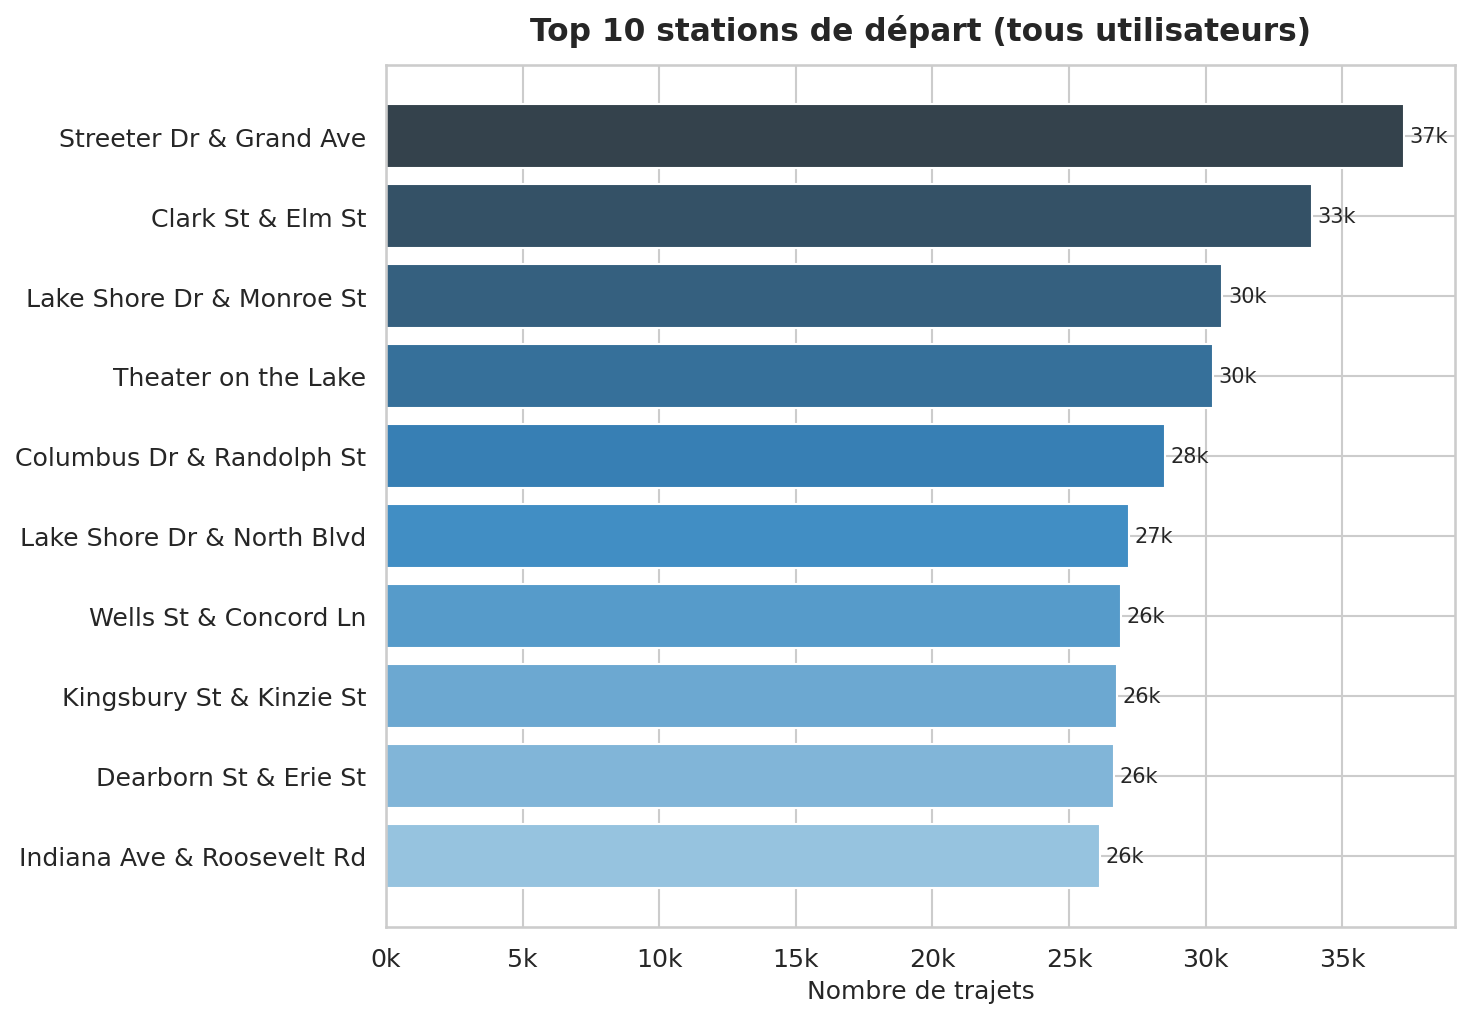
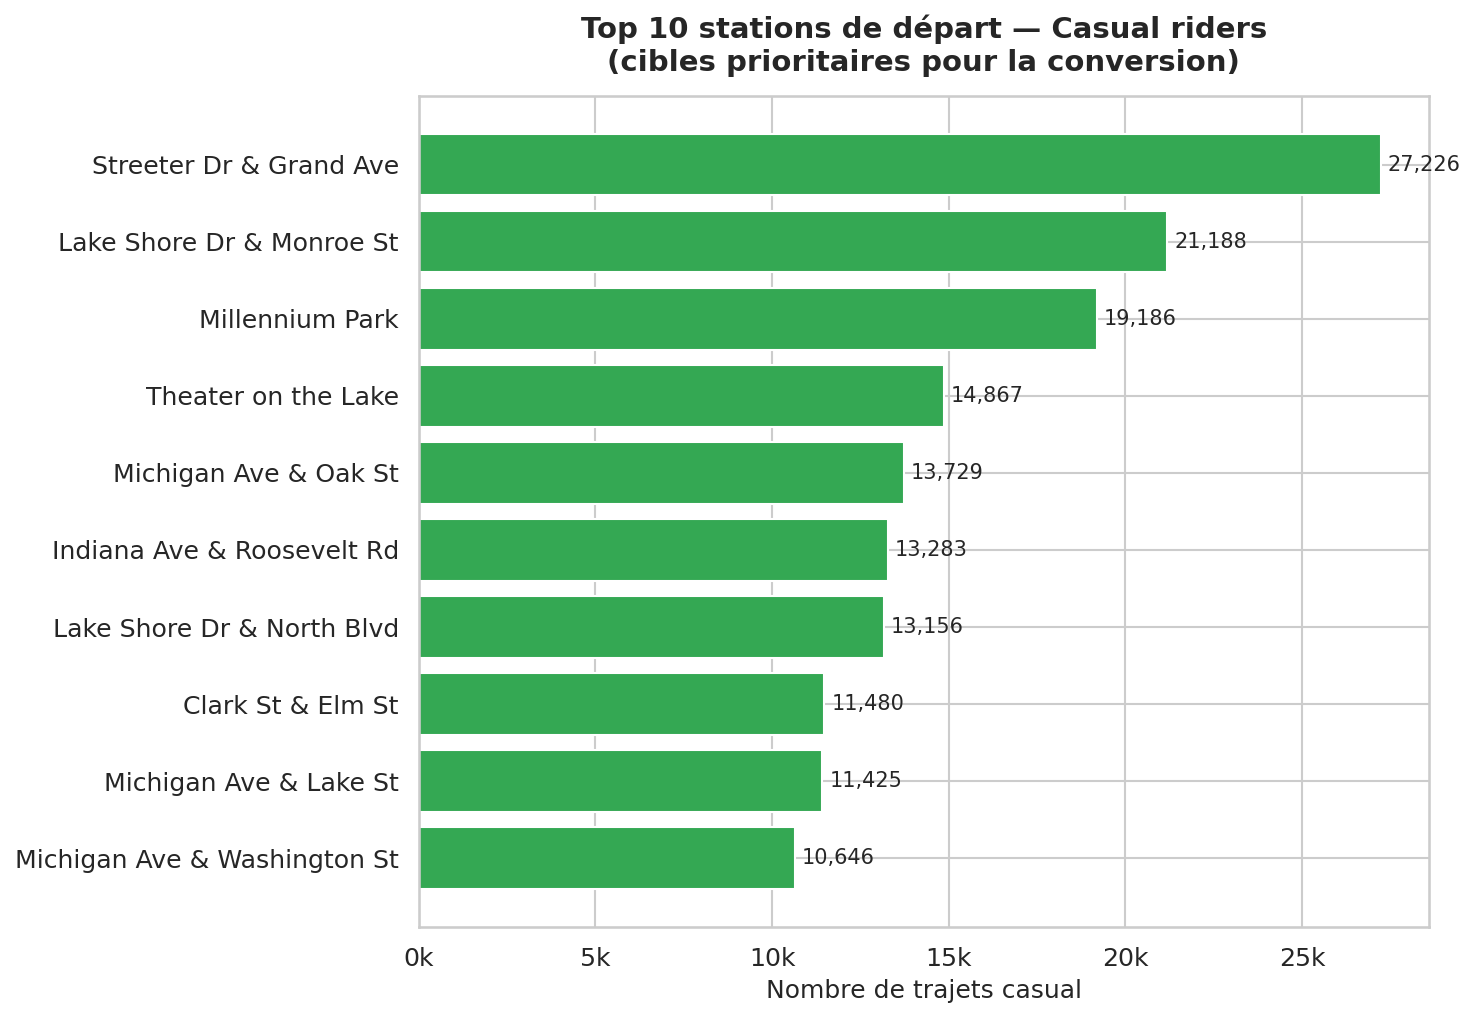
chore: align all deliverables — single source of truth
- fig5 bike types: new color palette (orange/violet/gold) consistent across
  04_visualizations.py and 05_dashboard.py; labels moved to legend only
- fig6 top 10 stations: aligned PNG on casual riders only (was global),
  matching dashboard; title and axis label updated accordingly
- 06_report.md + README.md: fig6 description updated (global → casual)
- All PNG figures regenerated, dashboard HTML rebuilt, docx + pdf re-exported

diff --git a/05_dashboard.html b/05_dashboard.html
@@ -128,7 +128,7 @@
 <div class="section-title">Comportement & Équipement</div>
 <div class="charts-grid grid-2">
   <div class="chart-card"><div>                            <div id="fig8" class="plotly-graph-div" style="height:100%; width:100%;"></div>            <script type="text/javascript">                window.PLOTLYENV=window.PLOTLYENV || {};                                if (document.getElementById("fig8")) {                    Plotly.newPlot(                        "fig8",                        [{"hovertemplate":"%{x}\u003cbr\u003eDur\u00e9e moy.: %{y:.1f} min\u003cextra\u003e\u003c\u002fextra\u003e","marker":{"color":"#1A73E8"},"name":"Member","x":["Dimanche","Lundi","Mardi","Mercredi","Jeudi","Vendredi","Samedi"],"y":[16.7,13.7,13.7,13.8,13.8,14.3,16.7],"type":"bar"},{"hovertemplate":"%{x}\u003cbr\u003eDur\u00e9e moy.: %{y:.1f} min\u003cextra\u003e\u003c\u002fextra\u003e","marker":{"color":"#34A853"},"name":"Casual","x":["Dimanche","Lundi","Mardi","Mercredi","Jeudi","Vendredi","Samedi"],"y":[41.1,36.4,34.2,33.6,33.8,35.6,39.7],"type":"bar"}],                        {"template":{"data":{"histogram2dcontour":[{"type":"histogram2dcontour","colorbar":{"outlinewidth":0,"ticks":""},"colorscale":[[0.0,"#0d0887"],[0.1111111111111111,"#46039f"],[0.2222222222222222,"#7201a8"],[0.3333333333333333,"#9c179e"],[0.4444444444444444,"#bd3786"],[0.5555555555555556,"#d8576b"],[0.6666666666666666,"#ed7953"],[0.7777777777777778,"#fb9f3a"],[0.8888888888888888,"#fdca26"],[1.0,"#f0f921"]]}],"choropleth":[{"type":"choropleth","colorbar":{"outlinewidth":0,"ticks":""}}],"histogram2d":[{"type":"histogram2d","colorbar":{"outlinewidth":0,"ticks":""},"colorscale":[[0.0,"#0d0887"],[0.1111111111111111,"#46039f"],[0.2222222222222222,"#7201a8"],[0.3333333333333333,"#9c179e"],[0.4444444444444444,"#bd3786"],[0.5555555555555556,"#d8576b"],[0.6666666666666666,"#ed7953"],[0.7777777777777778,"#fb9f3a"],[0.8888888888888888,"#fdca26"],[1.0,"#f0f921"]]}],"heatmap":[{"type":"heatmap","colorbar":{"outlinewidth":0,"ticks":""},"colorscale":[[0.0,"#0d0887"],[0.1111111111111111,"#46039f"],[0.2222222222222222,"#7201a8"],[0.3333333333333333,"#9c179e"],[0.4444444444444444,"#bd3786"],[0.5555555555555556,"#d8576b"],[0.6666666666666666,"#ed7953"],[0.7777777777777778,"#fb9f3a"],[0.8888888888888888,"#fdca26"],[1.0,"#f0f921"]]}],"contourcarpet":[{"type":"contourcarpet","colorbar":{"outlinewidth":0,"ticks":""}}],"contour":[{"type":"contour","colorbar":{"outlinewidth":0,"ticks":""},"colorscale":[[0.0,"#0d0887"],[0.1111111111111111,"#46039f"],[0.2222222222222222,"#7201a8"],[0.3333333333333333,"#9c179e"],[0.4444444444444444,"#bd3786"],[0.5555555555555556,"#d8576b"],[0.6666666666666666,"#ed7953"],[0.7777777777777778,"#fb9f3a"],[0.8888888888888888,"#fdca26"],[1.0,"#f0f921"]]}],"surface":[{"type":"surface","colorbar":{"outlinewidth":0,"ticks":""},"colorscale":[[0.0,"#0d0887"],[0.1111111111111111,"#46039f"],[0.2222222222222222,"#7201a8"],[0.3333333333333333,"#9c179e"],[0.4444444444444444,"#bd3786"],[0.5555555555555556,"#d8576b"],[0.6666666666666666,"#ed7953"],[0.7777777777777778,"#fb9f3a"],[0.8888888888888888,"#fdca26"],[1.0,"#f0f921"]]}],"mesh3d":[{"type":"mesh3d","colorbar":{"outlinewidth":0,"ticks":""}}],"scatter":[{"fillpattern":{"fillmode":"overlay","size":10,"solidity":0.2},"type":"scatter"}],"parcoords":[{"type":"parcoords","line":{"colorbar":{"outlinewidth":0,"ticks":""}}}],"scatterpolargl":[{"type":"scatterpolargl","marker":{"colorbar":{"outlinewidth":0,"ticks":""}}}],"bar":[{"error_x":{"color":"#2a3f5f"},"error_y":{"color":"#2a3f5f"},"marker":{"line":{"color":"#E5ECF6","width":0.5},"pattern":{"fillmode":"overlay","size":10,"solidity":0.2}},"type":"bar"}],"scattergeo":[{"type":"scattergeo","marker":{"colorbar":{"outlinewidth":0,"ticks":""}}}],"scatterpolar":[{"type":"scatterpolar","marker":{"colorbar":{"outlinewidth":0,"ticks":""}}}],"histogram":[{"marker":{"pattern":{"fillmode":"overlay","size":10,"solidity":0.2}},"type":"histogram"}],"scattergl":[{"type":"scattergl","marker":{"colorbar":{"outlinewidth":0,"ticks":""}}}],"scatter3d":[{"type":"scatter3d","line":{"colorbar":{"outlinewidth":0,"ticks":""}},"marker":{"colorbar":{"outlinewidth":0,"ticks":""}}}],"scattermap":[{"type":"scattermap","marker":{"colorbar":{"outlinewidth":0,"ticks":""}}}],"scattermapbox":[{"type":"scattermapbox","marker":{"colorbar":{"outlinewidth":0,"ticks":""}}}],"scatterternary":[{"type":"scatterternary","marker":{"colorbar":{"outlinewidth":0,"ticks":""}}}],"scattercarpet":[{"type":"scattercarpet","marker":{"colorbar":{"outlinewidth":0,"ticks":""}}}],"carpet":[{"aaxis":{"endlinecolor":"#2a3f5f","gridcolor":"white","linecolor":"white","minorgridcolor":"white","startlinecolor":"#2a3f5f"},"baxis":{"endlinecolor":"#2a3f5f","gridcolor":"white","linecolor":"white","minorgridcolor":"white","startlinecolor":"#2a3f5f"},"type":"carpet"}],"table":[{"cells":{"fill":{"color":"#EBF0F8"},"line":{"color":"white"}},"header":{"fill":{"color":"#C8D4E3"},"line":{"color":"white"}},"type":"table"}],"barpolar":[{"marker":{"line":{"color":"#E5ECF6","width":0.5},"pattern":{"fillmode":"overlay","size":10,"solidity":0.2}},"type":"barpolar"}],"pie":[{"automargin":true,"type":"pie"}]},"layout":{"autotypenumbers":"strict","colorway":["#636efa","#EF553B","#00cc96","#ab63fa","#FFA15A","#19d3f3","#FF6692","#B6E880","#FF97FF","#FECB52"],"font":{"color":"#2a3f5f"},"hovermode":"closest","hoverlabel":{"align":"left"},"paper_bgcolor":"white","plot_bgcolor":"#E5ECF6","polar":{"bgcolor":"#E5ECF6","angularaxis":{"gridcolor":"white","linecolor":"white","ticks":""},"radialaxis":{"gridcolor":"white","linecolor":"white","ticks":""}},"ternary":{"bgcolor":"#E5ECF6","aaxis":{"gridcolor":"white","linecolor":"white","ticks":""},"baxis":{"gridcolor":"white","linecolor":"white","ticks":""},"caxis":{"gridcolor":"white","linecolor":"white","ticks":""}},"coloraxis":{"colorbar":{"outlinewidth":0,"ticks":""}},"colorscale":{"sequential":[[0.0,"#0d0887"],[0.1111111111111111,"#46039f"],[0.2222222222222222,"#7201a8"],[0.3333333333333333,"#9c179e"],[0.4444444444444444,"#bd3786"],[0.5555555555555556,"#d8576b"],[0.6666666666666666,"#ed7953"],[0.7777777777777778,"#fb9f3a"],[0.8888888888888888,"#fdca26"],[1.0,"#f0f921"]],"sequentialminus":[[0.0,"#0d0887"],[0.1111111111111111,"#46039f"],[0.2222222222222222,"#7201a8"],[0.3333333333333333,"#9c179e"],[0.4444444444444444,"#bd3786"],[0.5555555555555556,"#d8576b"],[0.6666666666666666,"#ed7953"],[0.7777777777777778,"#fb9f3a"],[0.8888888888888888,"#fdca26"],[1.0,"#f0f921"]],"diverging":[[0,"#8e0152"],[0.1,"#c51b7d"],[0.2,"#de77ae"],[0.3,"#f1b6da"],[0.4,"#fde0ef"],[0.5,"#f7f7f7"],[0.6,"#e6f5d0"],[0.7,"#b8e186"],[0.8,"#7fbc41"],[0.9,"#4d9221"],[1,"#276419"]]},"xaxis":{"gridcolor":"white","linecolor":"white","ticks":"","title":{"standoff":15},"zerolinecolor":"white","automargin":true,"zerolinewidth":2},"yaxis":{"gridcolor":"white","linecolor":"white","ticks":"","title":{"standoff":15},"zerolinecolor":"white","automargin":true,"zerolinewidth":2},"scene":{"xaxis":{"backgroundcolor":"#E5ECF6","gridcolor":"white","linecolor":"white","showbackground":true,"ticks":"","zerolinecolor":"white","gridwidth":2},"yaxis":{"backgroundcolor":"#E5ECF6","gridcolor":"white","linecolor":"white","showbackground":true,"ticks":"","zerolinecolor":"white","gridwidth":2},"zaxis":{"backgroundcolor":"#E5ECF6","gridcolor":"white","linecolor":"white","showbackground":true,"ticks":"","zerolinecolor":"white","gridwidth":2}},"shapedefaults":{"line":{"color":"#2a3f5f"}},"annotationdefaults":{"arrowcolor":"#2a3f5f","arrowhead":0,"arrowwidth":1},"geo":{"bgcolor":"white","landcolor":"#E5ECF6","subunitcolor":"white","showland":true,"showlakes":true,"lakecolor":"white"},"title":{"x":0.05},"mapbox":{"style":"light"}}},"title":{"font":{"size":16,"color":"#202124","family":"Google Sans, Arial"},"text":"Dur\u00e9e moyenne des trajets par jour de la semaine","x":0.02,"xanchor":"left"},"font":{"family":"Google Sans, Arial","size":13,"color":"#5F6368"},"legend":{"font":{"size":13},"bgcolor":"rgba(0,0,0,0)","borderwidth":0},"margin":{"l":40,"r":20,"t":50,"b":40},"hoverlabel":{"font":{"size":13},"bgcolor":"white"},"paper_bgcolor":"#FFFFFF","plot_bgcolor":"#F8F9FA","xaxis":{"gridcolor":"#E8EAED","linecolor":"#E8EAED"},"yaxis":{"gridcolor":"#E8EAED","linecolor":"#E8EAED","title":{"text":"Minutes (moyenne)"}},"barmode":"group"},                        {"responsive": true}                    )                };            </script>        </div></div>
-  <div class="chart-card"><div>                            <div id="fig5" class="plotly-graph-div" style="height:100%; width:100%;"></div>            <script type="text/javascript">                window.PLOTLYENV=window.PLOTLYENV || {};                                if (document.getElementById("fig5")) {                    Plotly.newPlot(                        "fig5",                        [{"hole":0.45,"hovertemplate":"%{label}\u003cbr\u003e%{value:,} trajets (%{percent})\u003cextra\u003e\u003c\u002fextra\u003e","labels":["classic_bike","docked_bike","electric_bike"],"marker":{"colors":["#1A73E8","#34A853","#FBBC04","#EA4335"]},"name":"Member","textinfo":"percent+label","values":[59285,1812458,295250],"type":"pie","domain":{"x":[0.0,0.45],"y":[0.0,1.0]}},{"hole":0.45,"hovertemplate":"%{label}\u003cbr\u003e%{value:,} trajets (%{percent})\u003cextra\u003e\u003c\u002fextra\u003e","labels":["classic_bike","docked_bike","electric_bike"],"marker":{"colors":["#1A73E8","#34A853","#FBBC04","#EA4335"]},"name":"Casual","textinfo":"percent+label","values":[11300,1136174,206116],"type":"pie","domain":{"x":[0.55,1.0],"y":[0.0,1.0]}}],                        {"template":{"data":{"histogram2dcontour":[{"type":"histogram2dcontour","colorbar":{"outlinewidth":0,"ticks":""},"colorscale":[[0.0,"#0d0887"],[0.1111111111111111,"#46039f"],[0.2222222222222222,"#7201a8"],[0.3333333333333333,"#9c179e"],[0.4444444444444444,"#bd3786"],[0.5555555555555556,"#d8576b"],[0.6666666666666666,"#ed7953"],[0.7777777777777778,"#fb9f3a"],[0.8888888888888888,"#fdca26"],[1.0,"#f0f921"]]}],"choropleth":[{"type":"choropleth","colorbar":{"outlinewidth":0,"ticks":""}}],"histogram2d":[{"type":"histogram2d","colorbar":{"outlinewidth":0,"ticks":""},"colorscale":[[0.0,"#0d0887"],[0.1111111111111111,"#46039f"],[0.2222222222222222,"#7201a8"],[0.3333333333333333,"#9c179e"],[0.4444444444444444,"#bd3786"],[0.5555555555555556,"#d8576b"],[0.6666666666666666,"#ed7953"],[0.7777777777777778,"#fb9f3a"],[0.8888888888888888,"#fdca26"],[1.0,"#f0f921"]]}],"heatmap":[{"type":"heatmap","colorbar":{"outlinewidth":0,"ticks":""},"colorscale":[[0.0,"#0d0887"],[0.1111111111111111,"#46039f"],[0.2222222222222222,"#7201a8"],[0.3333333333333333,"#9c179e"],[0.4444444444444444,"#bd3786"],[0.5555555555555556,"#d8576b"],[0.6666666666666666,"#ed7953"],[0.7777777777777778,"#fb9f3a"],[0.8888888888888888,"#fdca26"],[1.0,"#f0f921"]]}],"contourcarpet":[{"type":"contourcarpet","colorbar":{"outlinewidth":0,"ticks":""}}],"contour":[{"type":"contour","colorbar":{"outlinewidth":0,"ticks":""},"colorscale":[[0.0,"#0d0887"],[0.1111111111111111,"#46039f"],[0.2222222222222222,"#7201a8"],[0.3333333333333333,"#9c179e"],[0.4444444444444444,"#bd3786"],[0.5555555555555556,"#d8576b"],[0.6666666666666666,"#ed7953"],[0.7777777777777778,"#fb9f3a"],[0.8888888888888888,"#fdca26"],[1.0,"#f0f921"]]}],"surface":[{"type":"surface","colorbar":{"outlinewidth":0,"ticks":""},"colorscale":[[0.0,"#0d0887"],[0.1111111111111111,"#46039f"],[0.2222222222222222,"#7201a8"],[0.3333333333333333,"#9c179e"],[0.4444444444444444,"#bd3786"],[0.5555555555555556,"#d8576b"],[0.6666666666666666,"#ed7953"],[0.7777777777777778,"#fb9f3a"],[0.8888888888888888,"#fdca26"],[1.0,"#f0f921"]]}],"mesh3d":[{"type":"mesh3d","colorbar":{"outlinewidth":0,"ticks":""}}],"scatter":[{"fillpattern":{"fillmode":"overlay","size":10,"solidity":0.2},"type":"scatter"}],"parcoords":[{"type":"parcoords","line":{"colorbar":{"outlinewidth":0,"ticks":""}}}],"scatterpolargl":[{"type":"scatterpolargl","marker":{"colorbar":{"outlinewidth":0,"ticks":""}}}],"bar":[{"error_x":{"color":"#2a3f5f"},"error_y":{"color":"#2a3f5f"},"marker":{"line":{"color":"#E5ECF6","width":0.5},"pattern":{"fillmode":"overlay","size":10,"solidity":0.2}},"type":"bar"}],"scattergeo":[{"type":"scattergeo","marker":{"colorbar":{"outlinewidth":0,"ticks":""}}}],"scatterpolar":[{"type":"scatterpolar","marker":{"colorbar":{"outlinewidth":0,"ticks":""}}}],"histogram":[{"marker":{"pattern":{"fillmode":"overlay","size":10,"solidity":0.2}},"type":"histogram"}],"scattergl":[{"type":"scattergl","marker":{"colorbar":{"outlinewidth":0,"ticks":""}}}],"scatter3d":[{"type":"scatter3d","line":{"colorbar":{"outlinewidth":0,"ticks":""}},"marker":{"colorbar":{"outlinewidth":0,"ticks":""}}}],"scattermap":[{"type":"scattermap","marker":{"colorbar":{"outlinewidth":0,"ticks":""}}}],"scattermapbox":[{"type":"scattermapbox","marker":{"colorbar":{"outlinewidth":0,"ticks":""}}}],"scatterternary":[{"type":"scatterternary","marker":{"colorbar":{"outlinewidth":0,"ticks":""}}}],"scattercarpet":[{"type":"scattercarpet","marker":{"colorbar":{"outlinewidth":0,"ticks":""}}}],"carpet":[{"aaxis":{"endlinecolor":"#2a3f5f","gridcolor":"white","linecolor":"white","minorgridcolor":"white","startlinecolor":"#2a3f5f"},"baxis":{"endlinecolor":"#2a3f5f","gridcolor":"white","linecolor":"white","minorgridcolor":"white","startlinecolor":"#2a3f5f"},"type":"carpet"}],"table":[{"cells":{"fill":{"color":"#EBF0F8"},"line":{"color":"white"}},"header":{"fill":{"color":"#C8D4E3"},"line":{"color":"white"}},"type":"table"}],"barpolar":[{"marker":{"line":{"color":"#E5ECF6","width":0.5},"pattern":{"fillmode":"overlay","size":10,"solidity":0.2}},"type":"barpolar"}],"pie":[{"automargin":true,"type":"pie"}]},"layout":{"autotypenumbers":"strict","colorway":["#636efa","#EF553B","#00cc96","#ab63fa","#FFA15A","#19d3f3","#FF6692","#B6E880","#FF97FF","#FECB52"],"font":{"color":"#2a3f5f"},"hovermode":"closest","hoverlabel":{"align":"left"},"paper_bgcolor":"white","plot_bgcolor":"#E5ECF6","polar":{"bgcolor":"#E5ECF6","angularaxis":{"gridcolor":"white","linecolor":"white","ticks":""},"radialaxis":{"gridcolor":"white","linecolor":"white","ticks":""}},"ternary":{"bgcolor":"#E5ECF6","aaxis":{"gridcolor":"white","linecolor":"white","ticks":""},"baxis":{"gridcolor":"white","linecolor":"white","ticks":""},"caxis":{"gridcolor":"white","linecolor":"white","ticks":""}},"coloraxis":{"colorbar":{"outlinewidth":0,"ticks":""}},"colorscale":{"sequential":[[0.0,"#0d0887"],[0.1111111111111111,"#46039f"],[0.2222222222222222,"#7201a8"],[0.3333333333333333,"#9c179e"],[0.4444444444444444,"#bd3786"],[0.5555555555555556,"#d8576b"],[0.6666666666666666,"#ed7953"],[0.7777777777777778,"#fb9f3a"],[0.8888888888888888,"#fdca26"],[1.0,"#f0f921"]],"sequentialminus":[[0.0,"#0d0887"],[0.1111111111111111,"#46039f"],[0.2222222222222222,"#7201a8"],[0.3333333333333333,"#9c179e"],[0.4444444444444444,"#bd3786"],[0.5555555555555556,"#d8576b"],[0.6666666666666666,"#ed7953"],[0.7777777777777778,"#fb9f3a"],[0.8888888888888888,"#fdca26"],[1.0,"#f0f921"]],"diverging":[[0,"#8e0152"],[0.1,"#c51b7d"],[0.2,"#de77ae"],[0.3,"#f1b6da"],[0.4,"#fde0ef"],[0.5,"#f7f7f7"],[0.6,"#e6f5d0"],[0.7,"#b8e186"],[0.8,"#7fbc41"],[0.9,"#4d9221"],[1,"#276419"]]},"xaxis":{"gridcolor":"white","linecolor":"white","ticks":"","title":{"standoff":15},"zerolinecolor":"white","automargin":true,"zerolinewidth":2},"yaxis":{"gridcolor":"white","linecolor":"white","ticks":"","title":{"standoff":15},"zerolinecolor":"white","automargin":true,"zerolinewidth":2},"scene":{"xaxis":{"backgroundcolor":"#E5ECF6","gridcolor":"white","linecolor":"white","showbackground":true,"ticks":"","zerolinecolor":"white","gridwidth":2},"yaxis":{"backgroundcolor":"#E5ECF6","gridcolor":"white","linecolor":"white","showbackground":true,"ticks":"","zerolinecolor":"white","gridwidth":2},"zaxis":{"backgroundcolor":"#E5ECF6","gridcolor":"white","linecolor":"white","showbackground":true,"ticks":"","zerolinecolor":"white","gridwidth":2}},"shapedefaults":{"line":{"color":"#2a3f5f"}},"annotationdefaults":{"arrowcolor":"#2a3f5f","arrowhead":0,"arrowwidth":1},"geo":{"bgcolor":"white","landcolor":"#E5ECF6","subunitcolor":"white","showland":true,"showlakes":true,"lakecolor":"white"},"title":{"x":0.05},"mapbox":{"style":"light"}}},"annotations":[{"font":{"size":16},"showarrow":false,"text":"Membres","x":0.225,"xanchor":"center","xref":"paper","y":1.0,"yanchor":"bottom","yref":"paper"},{"font":{"size":16},"showarrow":false,"text":"Casual","x":0.775,"xanchor":"center","xref":"paper","y":1.0,"yanchor":"bottom","yref":"paper"}],"title":{"font":{"size":16,"color":"#202124","family":"Google Sans, Arial"},"text":"Types de v\u00e9los utilis\u00e9s","x":0.02,"xanchor":"left"},"font":{"family":"Google Sans, Arial","size":13,"color":"#5F6368"},"legend":{"font":{"size":13},"bgcolor":"rgba(0,0,0,0)","borderwidth":0},"margin":{"l":40,"r":20,"t":50,"b":40},"hoverlabel":{"font":{"size":13},"bgcolor":"white"},"paper_bgcolor":"#FFFFFF","plot_bgcolor":"#F8F9FA","xaxis":{"gridcolor":"#E8EAED","linecolor":"#E8EAED"},"yaxis":{"gridcolor":"#E8EAED","linecolor":"#E8EAED"},"showlegend":true},                        {"responsive": true}                    )                };            </script>        </div></div>
+  <div class="chart-card"><div>                            <div id="fig5" class="plotly-graph-div" style="height:420px; width:100%;"></div>            <script type="text/javascript">                window.PLOTLYENV=window.PLOTLYENV || {};                                if (document.getElementById("fig5")) {                    Plotly.newPlot(                        "fig5",                        [{"automargin":true,"hole":0.42,"hovertemplate":"%{label}\u003cbr\u003e%{value:,} trajets (%{percent})\u003cextra\u003e\u003c\u002fextra\u003e","labels":["classic_bike","docked_bike","electric_bike"],"marker":{"colors":["#FF8C42","#6C63FF","#F7C948"]},"name":"Member","textfont":{"size":12},"textinfo":"percent","textposition":"outside","values":[59285,1812458,295250],"type":"pie","domain":{"x":[0.0,0.46],"y":[0.0,1.0]}},{"automargin":true,"hole":0.42,"hovertemplate":"%{label}\u003cbr\u003e%{value:,} trajets (%{percent})\u003cextra\u003e\u003c\u002fextra\u003e","labels":["classic_bike","docked_bike","electric_bike"],"marker":{"colors":["#FF8C42","#6C63FF","#F7C948"]},"name":"Casual","textfont":{"size":12},"textinfo":"percent","textposition":"outside","values":[11300,1136174,206116],"type":"pie","domain":{"x":[0.54,1.0],"y":[0.0,1.0]}}],                        {"template":{"data":{"histogram2dcontour":[{"type":"histogram2dcontour","colorbar":{"outlinewidth":0,"ticks":""},"colorscale":[[0.0,"#0d0887"],[0.1111111111111111,"#46039f"],[0.2222222222222222,"#7201a8"],[0.3333333333333333,"#9c179e"],[0.4444444444444444,"#bd3786"],[0.5555555555555556,"#d8576b"],[0.6666666666666666,"#ed7953"],[0.7777777777777778,"#fb9f3a"],[0.8888888888888888,"#fdca26"],[1.0,"#f0f921"]]}],"choropleth":[{"type":"choropleth","colorbar":{"outlinewidth":0,"ticks":""}}],"histogram2d":[{"type":"histogram2d","colorbar":{"outlinewidth":0,"ticks":""},"colorscale":[[0.0,"#0d0887"],[0.1111111111111111,"#46039f"],[0.2222222222222222,"#7201a8"],[0.3333333333333333,"#9c179e"],[0.4444444444444444,"#bd3786"],[0.5555555555555556,"#d8576b"],[0.6666666666666666,"#ed7953"],[0.7777777777777778,"#fb9f3a"],[0.8888888888888888,"#fdca26"],[1.0,"#f0f921"]]}],"heatmap":[{"type":"heatmap","colorbar":{"outlinewidth":0,"ticks":""},"colorscale":[[0.0,"#0d0887"],[0.1111111111111111,"#46039f"],[0.2222222222222222,"#7201a8"],[0.3333333333333333,"#9c179e"],[0.4444444444444444,"#bd3786"],[0.5555555555555556,"#d8576b"],[0.6666666666666666,"#ed7953"],[0.7777777777777778,"#fb9f3a"],[0.8888888888888888,"#fdca26"],[1.0,"#f0f921"]]}],"contourcarpet":[{"type":"contourcarpet","colorbar":{"outlinewidth":0,"ticks":""}}],"contour":[{"type":"contour","colorbar":{"outlinewidth":0,"ticks":""},"colorscale":[[0.0,"#0d0887"],[0.1111111111111111,"#46039f"],[0.2222222222222222,"#7201a8"],[0.3333333333333333,"#9c179e"],[0.4444444444444444,"#bd3786"],[0.5555555555555556,"#d8576b"],[0.6666666666666666,"#ed7953"],[0.7777777777777778,"#fb9f3a"],[0.8888888888888888,"#fdca26"],[1.0,"#f0f921"]]}],"surface":[{"type":"surface","colorbar":{"outlinewidth":0,"ticks":""},"colorscale":[[0.0,"#0d0887"],[0.1111111111111111,"#46039f"],[0.2222222222222222,"#7201a8"],[0.3333333333333333,"#9c179e"],[0.4444444444444444,"#bd3786"],[0.5555555555555556,"#d8576b"],[0.6666666666666666,"#ed7953"],[0.7777777777777778,"#fb9f3a"],[0.8888888888888888,"#fdca26"],[1.0,"#f0f921"]]}],"mesh3d":[{"type":"mesh3d","colorbar":{"outlinewidth":0,"ticks":""}}],"scatter":[{"fillpattern":{"fillmode":"overlay","size":10,"solidity":0.2},"type":"scatter"}],"parcoords":[{"type":"parcoords","line":{"colorbar":{"outlinewidth":0,"ticks":""}}}],"scatterpolargl":[{"type":"scatterpolargl","marker":{"colorbar":{"outlinewidth":0,"ticks":""}}}],"bar":[{"error_x":{"color":"#2a3f5f"},"error_y":{"color":"#2a3f5f"},"marker":{"line":{"color":"#E5ECF6","width":0.5},"pattern":{"fillmode":"overlay","size":10,"solidity":0.2}},"type":"bar"}],"scattergeo":[{"type":"scattergeo","marker":{"colorbar":{"outlinewidth":0,"ticks":""}}}],"scatterpolar":[{"type":"scatterpolar","marker":{"colorbar":{"outlinewidth":0,"ticks":""}}}],"histogram":[{"marker":{"pattern":{"fillmode":"overlay","size":10,"solidity":0.2}},"type":"histogram"}],"scattergl":[{"type":"scattergl","marker":{"colorbar":{"outlinewidth":0,"ticks":""}}}],"scatter3d":[{"type":"scatter3d","line":{"colorbar":{"outlinewidth":0,"ticks":""}},"marker":{"colorbar":{"outlinewidth":0,"ticks":""}}}],"scattermap":[{"type":"scattermap","marker":{"colorbar":{"outlinewidth":0,"ticks":""}}}],"scattermapbox":[{"type":"scattermapbox","marker":{"colorbar":{"outlinewidth":0,"ticks":""}}}],"scatterternary":[{"type":"scatterternary","marker":{"colorbar":{"outlinewidth":0,"ticks":""}}}],"scattercarpet":[{"type":"scattercarpet","marker":{"colorbar":{"outlinewidth":0,"ticks":""}}}],"carpet":[{"aaxis":{"endlinecolor":"#2a3f5f","gridcolor":"white","linecolor":"white","minorgridcolor":"white","startlinecolor":"#2a3f5f"},"baxis":{"endlinecolor":"#2a3f5f","gridcolor":"white","linecolor":"white","minorgridcolor":"white","startlinecolor":"#2a3f5f"},"type":"carpet"}],"table":[{"cells":{"fill":{"color":"#EBF0F8"},"line":{"color":"white"}},"header":{"fill":{"color":"#C8D4E3"},"line":{"color":"white"}},"type":"table"}],"barpolar":[{"marker":{"line":{"color":"#E5ECF6","width":0.5},"pattern":{"fillmode":"overlay","size":10,"solidity":0.2}},"type":"barpolar"}],"pie":[{"automargin":true,"type":"pie"}]},"layout":{"autotypenumbers":"strict","colorway":["#636efa","#EF553B","#00cc96","#ab63fa","#FFA15A","#19d3f3","#FF6692","#B6E880","#FF97FF","#FECB52"],"font":{"color":"#2a3f5f"},"hovermode":"closest","hoverlabel":{"align":"left"},"paper_bgcolor":"white","plot_bgcolor":"#E5ECF6","polar":{"bgcolor":"#E5ECF6","angularaxis":{"gridcolor":"white","linecolor":"white","ticks":""},"radialaxis":{"gridcolor":"white","linecolor":"white","ticks":""}},"ternary":{"bgcolor":"#E5ECF6","aaxis":{"gridcolor":"white","linecolor":"white","ticks":""},"baxis":{"gridcolor":"white","linecolor":"white","ticks":""},"caxis":{"gridcolor":"white","linecolor":"white","ticks":""}},"coloraxis":{"colorbar":{"outlinewidth":0,"ticks":""}},"colorscale":{"sequential":[[0.0,"#0d0887"],[0.1111111111111111,"#46039f"],[0.2222222222222222,"#7201a8"],[0.3333333333333333,"#9c179e"],[0.4444444444444444,"#bd3786"],[0.5555555555555556,"#d8576b"],[0.6666666666666666,"#ed7953"],[0.7777777777777778,"#fb9f3a"],[0.8888888888888888,"#fdca26"],[1.0,"#f0f921"]],"sequentialminus":[[0.0,"#0d0887"],[0.1111111111111111,"#46039f"],[0.2222222222222222,"#7201a8"],[0.3333333333333333,"#9c179e"],[0.4444444444444444,"#bd3786"],[0.5555555555555556,"#d8576b"],[0.6666666666666666,"#ed7953"],[0.7777777777777778,"#fb9f3a"],[0.8888888888888888,"#fdca26"],[1.0,"#f0f921"]],"diverging":[[0,"#8e0152"],[0.1,"#c51b7d"],[0.2,"#de77ae"],[0.3,"#f1b6da"],[0.4,"#fde0ef"],[0.5,"#f7f7f7"],[0.6,"#e6f5d0"],[0.7,"#b8e186"],[0.8,"#7fbc41"],[0.9,"#4d9221"],[1,"#276419"]]},"xaxis":{"gridcolor":"white","linecolor":"white","ticks":"","title":{"standoff":15},"zerolinecolor":"white","automargin":true,"zerolinewidth":2},"yaxis":{"gridcolor":"white","linecolor":"white","ticks":"","title":{"standoff":15},"zerolinecolor":"white","automargin":true,"zerolinewidth":2},"scene":{"xaxis":{"backgroundcolor":"#E5ECF6","gridcolor":"white","linecolor":"white","showbackground":true,"ticks":"","zerolinecolor":"white","gridwidth":2},"yaxis":{"backgroundcolor":"#E5ECF6","gridcolor":"white","linecolor":"white","showbackground":true,"ticks":"","zerolinecolor":"white","gridwidth":2},"zaxis":{"backgroundcolor":"#E5ECF6","gridcolor":"white","linecolor":"white","showbackground":true,"ticks":"","zerolinecolor":"white","gridwidth":2}},"shapedefaults":{"line":{"color":"#2a3f5f"}},"annotationdefaults":{"arrowcolor":"#2a3f5f","arrowhead":0,"arrowwidth":1},"geo":{"bgcolor":"white","landcolor":"#E5ECF6","subunitcolor":"white","showland":true,"showlakes":true,"lakecolor":"white"},"title":{"x":0.05},"mapbox":{"style":"light"}}},"annotations":[{"font":{"size":16},"showarrow":false,"text":"Membres","x":0.23,"xanchor":"center","xref":"paper","y":1.0,"yanchor":"bottom","yref":"paper"},{"font":{"size":16},"showarrow":false,"text":"Casual","x":0.77,"xanchor":"center","xref":"paper","y":1.0,"yanchor":"bottom","yref":"paper"}],"title":{"font":{"size":16,"color":"#202124","family":"Google Sans, Arial"},"text":"Types de v\u00e9los utilis\u00e9s","x":0.02,"xanchor":"left"},"font":{"family":"Google Sans, Arial","size":13,"color":"#5F6368"},"legend":{"font":{"size":13},"bgcolor":"rgba(0,0,0,0)","borderwidth":0},"margin":{"l":40,"r":20,"t":50,"b":40},"hoverlabel":{"font":{"size":13},"bgcolor":"white"},"paper_bgcolor":"#FFFFFF","plot_bgcolor":"#F8F9FA","xaxis":{"gridcolor":"#E8EAED","linecolor":"#E8EAED"},"yaxis":{"gridcolor":"#E8EAED","linecolor":"#E8EAED"},"showlegend":true,"height":420},                        {"responsive": true}                    )                };            </script>        </div></div>
 </div>
 
 <!-- SECTION 4 : STATIONS -->

diff --git a/scripts/04_visualizations.py b/scripts/04_visualizations.py
@@ -140,44 +140,47 @@ bikes = (df.groupby(["member_casual","rideable_type"])
 bikes = bikes[bikes["rideable_type"] != "unknown"]
 
 fig, axes = plt.subplots(1, 2, figsize=(12, 5))
-bike_palette = ["#1A73E8","#34A853","#FBBC04","#EA4335"]
+# Palette alignée sur le dashboard : orange / violet / or (distinct de bleu membre et vert casual)
+bike_palette = ["#FF8C42", "#6C63FF", "#F7C948"]
 for ax, user_type in zip(axes, ["member","casual"]):
-    subset = bikes[bikes["member_casual"] == user_type]
+    subset = bikes[bikes["member_casual"] == user_type].reset_index(drop=True)
     wedges, texts, autotexts = ax.pie(
         subset["total_rides"],
-        labels=subset["rideable_type"],
+        labels=None,
         autopct="%1.1f%%",
         colors=bike_palette[:len(subset)],
         startangle=90,
-        pctdistance=0.75,
+        pctdistance=0.78,
         wedgeprops=dict(width=0.6, edgecolor="white", linewidth=2)
     )
     for at in autotexts:
         at.set_fontsize(11)
         at.set_fontweight("bold")
     ax.set_title(f"Types de vélos — {user_type.capitalize()}", fontsize=13, fontweight="bold")
+    ax.legend(subset["rideable_type"], loc="lower center",
+              bbox_to_anchor=(0.5, -0.12), ncol=3, fontsize=9, frameon=False)
 fig.suptitle("Types de vélos utilisés", fontsize=15, fontweight="bold", y=1.02)
 fig.tight_layout()
 save(fig, "05_bike_types.png")
 
 
-# ── Fig 6 — Top 10 stations les plus populaires ───────────────────────────────
-print("Fig 6 — Top 10 stations")
-top_stations = (df[df["start_station_name"].notna()]
-                .groupby("start_station_name")
-                .size().reset_index(name="total_rides")
-                .sort_values("total_rides", ascending=False)
-                .head(10))
+# ── Fig 6 — Top 10 stations casual (cibles marketing) ────────────────────────
+print("Fig 6 — Top 10 stations casual")
+top_casual = (df[(df["start_station_name"].notna()) & (df["member_casual"] == "casual")]
+              .groupby("start_station_name")
+              .size().reset_index(name="total_rides")
+              .sort_values("total_rides", ascending=False)
+              .head(10).reset_index(drop=True))
 
 fig, ax = plt.subplots(figsize=(10, 7))
-colors = sns.color_palette("Blues_d", len(top_stations))[::-1]
-bars = ax.barh(top_stations["start_station_name"], top_stations["total_rides"],
-               color=colors, edgecolor="white")
-for bar in bars:
+bars = ax.barh(top_casual["start_station_name"], top_casual["total_rides"],
+               color=PALETTE["casual"], edgecolor="white")
+for bar, val in zip(bars, top_casual["total_rides"]):
     ax.text(bar.get_width() + 200, bar.get_y() + bar.get_height()/2,
-            f"{int(bar.get_width()/1000)}k", va="center", fontsize=10)
-ax.set_title("Top 10 stations de départ (tous utilisateurs)", fontsize=15, fontweight="bold", pad=12)
-ax.set_xlabel("Nombre de trajets", fontsize=12)
+            f"{val:,}", va="center", fontsize=10)
+ax.set_title("Top 10 stations de départ — Casual riders\n(cibles prioritaires pour la conversion)",
+             fontsize=14, fontweight="bold", pad=12)
+ax.set_xlabel("Nombre de trajets casual", fontsize=12)
 ax.xaxis.set_major_formatter(mticker.FuncFormatter(lambda x, _: f"{x/1e3:.0f}k"))
 ax.invert_yaxis()
 fig.tight_layout()

diff --git a/scripts/05_dashboard.py b/scripts/05_dashboard.py
@@ -168,8 +168,10 @@ fig4.update_yaxes(title_text="Nombre de trajets")
 # Fig 5 — Types de vélos
 fig5 = make_subplots(rows=1, cols=2,
                      subplot_titles=["Membres", "Casual"],
-                     specs=[[{"type":"pie"}, {"type":"pie"}]])
-colors_pie = [COLOR_MEMBER, COLOR_CASUAL, "#FBBC04", "#EA4335"]
+                     specs=[[{"type":"pie"}, {"type":"pie"}]],
+                     horizontal_spacing=0.08)
+# Couleurs vélos : orange / violet / or — distincts de member (bleu) et casual (vert)
+colors_pie = ["#FF8C42", "#6C63FF", "#F7C948"]
 for i, user_type in enumerate(["member", "casual"], 1):
     sub = bikes[bikes["member_casual"] == user_type].reset_index(drop=True)
     fig5.add_trace(go.Pie(
@@ -177,12 +179,18 @@ for i, user_type in enumerate(["member", "casual"], 1):
         values=list(sub["total_rides"]),
         name=user_type.capitalize(),
         marker_colors=colors_pie,
-        hole=0.45,
-        textinfo="percent+label",
+        hole=0.42,
+        textinfo="percent",
+        textposition="outside",
+        automargin=True,
+        textfont=dict(size=12),
         hovertemplate="%{label}<br>%{value:,} trajets (%{percent})<extra></extra>"
     ), row=1, col=i)
 fig5 = styled_fig(fig5, "Types de vélos utilisés")
-fig5.update_layout(showlegend=True)
+fig5.update_layout(
+    showlegend=True,
+    height=420,
+)
 
 # Fig 6 — Top 10 stations casual (cible marketing)
 fig6 = go.Figure(go.Bar(

diff --git a/README.md b/README.md
@@ -86,12 +86,11 @@ Les membres restent relativement actifs toute l'année (556k trajets en hiver).
 
 ---
 
-### 6. Top 10 Stations de départ
+### 6. Top 10 Stations de départ — Casual riders (cibles marketing)
 
-Les casual se concentrent sur les **stations touristiques** (Lakefront, Navy Pier, Millennium Park).  
-Les membres utilisent les stations de **quartiers résidentiels et de bureaux**.
+Les casual riders se concentrent sur les **stations touristiques** (Lakefront, Navy Pier, Millennium Park) — ces stations sont les cibles prioritaires pour les campagnes de conversion.
 
-![Top 10 stations](figures/06_top10_stations.png)
+![Top 10 stations casual](figures/06_top10_stations.png)
 
 ---
 

diff --git a/06_report.md b/06_report.md
@@ -142,7 +142,7 @@ Tous les graphiques sont disponibles dans le dossier `figures/` :
 | `03_rides_by_dow.png` | Trajets par jour de la semaine |
 | `04_rides_by_month.png` | Évolution mensuelle |
 | `05_bike_types.png` | Types de vélos utilisés |
-| `06_top10_stations.png` | Top 10 stations de départ |
+| `06_top10_stations.png` | Top 10 stations de départ — Casual riders (cibles marketing) |
 | `07_rides_by_hour.png` | Répartition par heure |
 | `08_avg_length_by_dow.png` | Durée moyenne par jour |
 